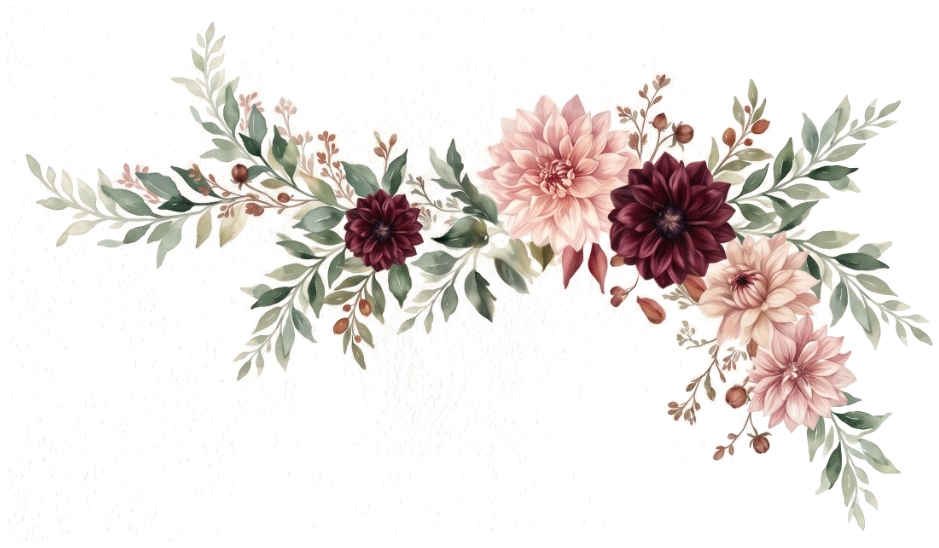
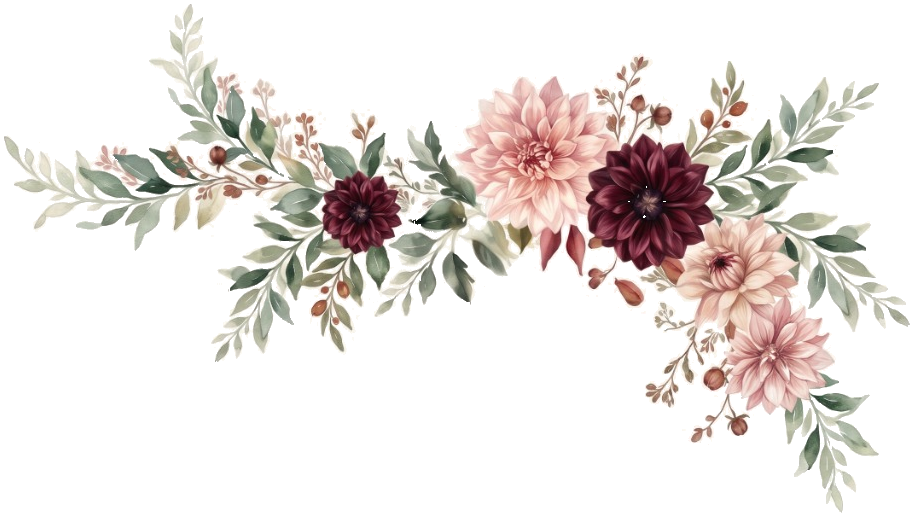
feat(hero): zoom floral garland so leaves end exactly at P of Partecipazione without clipping

Changed region(s): [[0.0, 0.0, 1.0, 0.9903]]

diff --git a/src/components/Hero.tsx b/src/components/Hero.tsx
@@ -4,12 +4,12 @@ export const Hero: React.FC = () => {
   return (
     <header className="relative pt-44 sm:pt-48 md:pt-52 pb-8 sm:pb-12 px-4 text-center overflow-hidden flex flex-col items-center justify-center bg-white">
       {/* 
-        Ghirlanda Floreale Botanica di Dalie e Fogliame generosa e scenografica:
-        - Dimensione visibile e prominente: w-[320px] sm:w-[420px] md:w-[540px]
-        - Posizionata a filo superiore destro, con rami e foglie che si allungano verso sinistra
-        - Nessun taglio geometrico (contorni naturali sfumati su bianco)
+        Ghirlanda Floreale Botanica di Dalie e Fogliame zoomata e presente:
+        - Dimensioni ingrandite per dare massimo risalto ai fiori: w-[345px] sm:w-[460px] md:w-[560px] lg:w-[640px]
+        - Posizionata a filo superiore destro in modo che l'estremità finale delle foglie a sinistra finisca esattamente dove inizia la 'P' di Partecipazione
+        - 100% contorni naturali intatti (nessun taglio geometrico, nessun ritaglio sui bordi)
       */}
-      <div className="absolute top-0 right-0 w-[320px] sm:w-[420px] md:w-[540px] pointer-events-none select-none z-0">
+      <div className="absolute top-0 right-0 w-[345px] sm:w-[460px] md:w-[560px] lg:w-[640px] pointer-events-none select-none z-0">
         <img
           src="./images/corner_floreale_top_right.png"
           alt="Angolo floreale di dalie ad acquerello esteso a sinistra"
